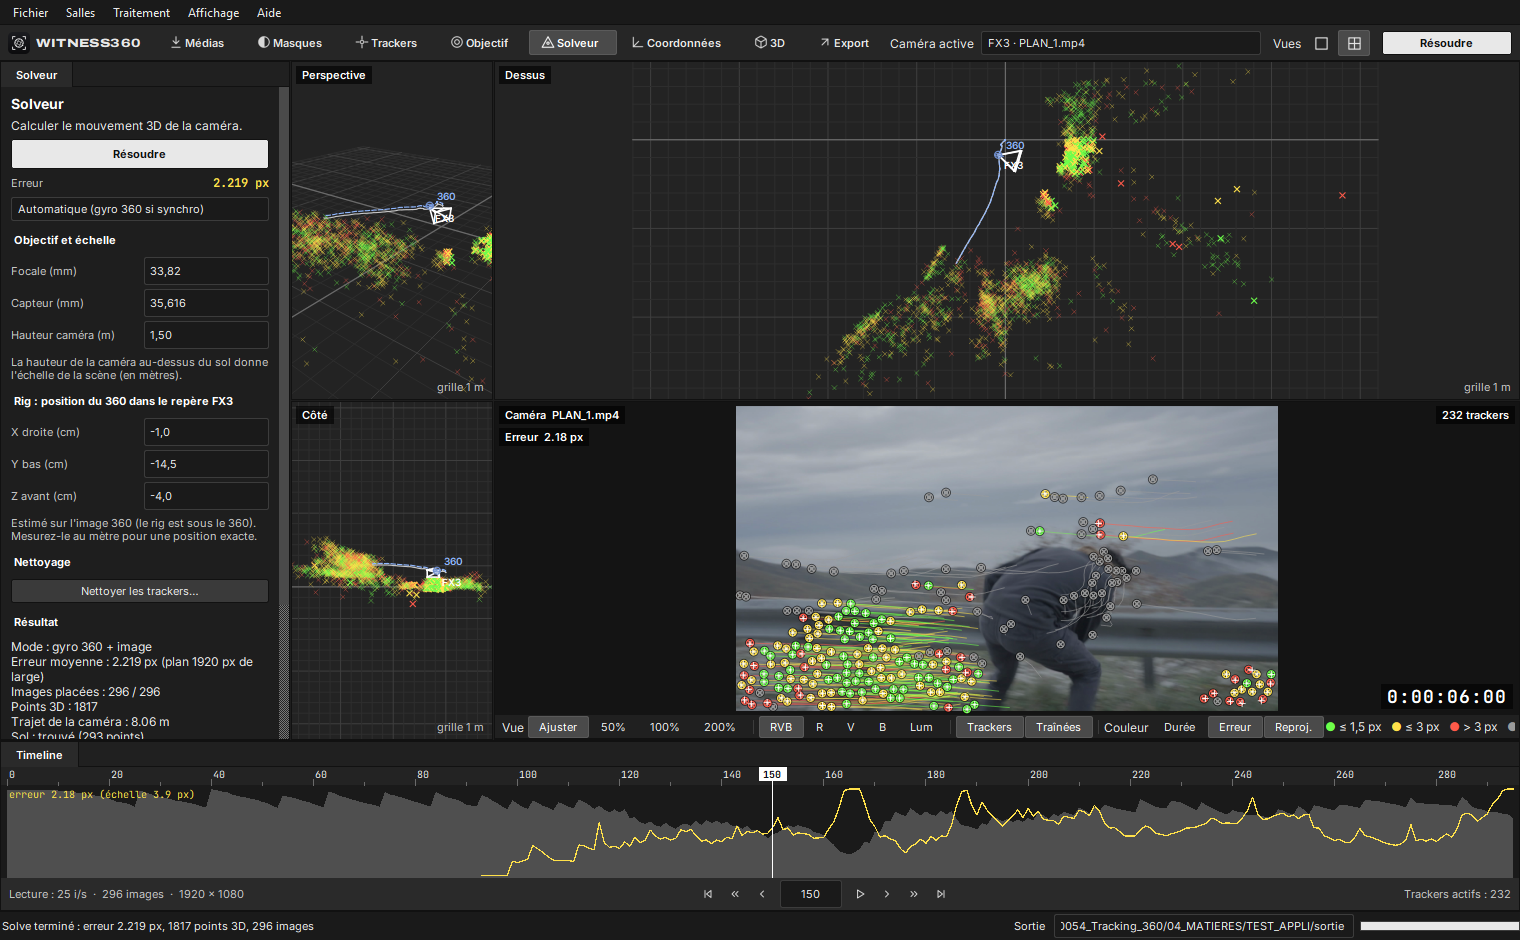
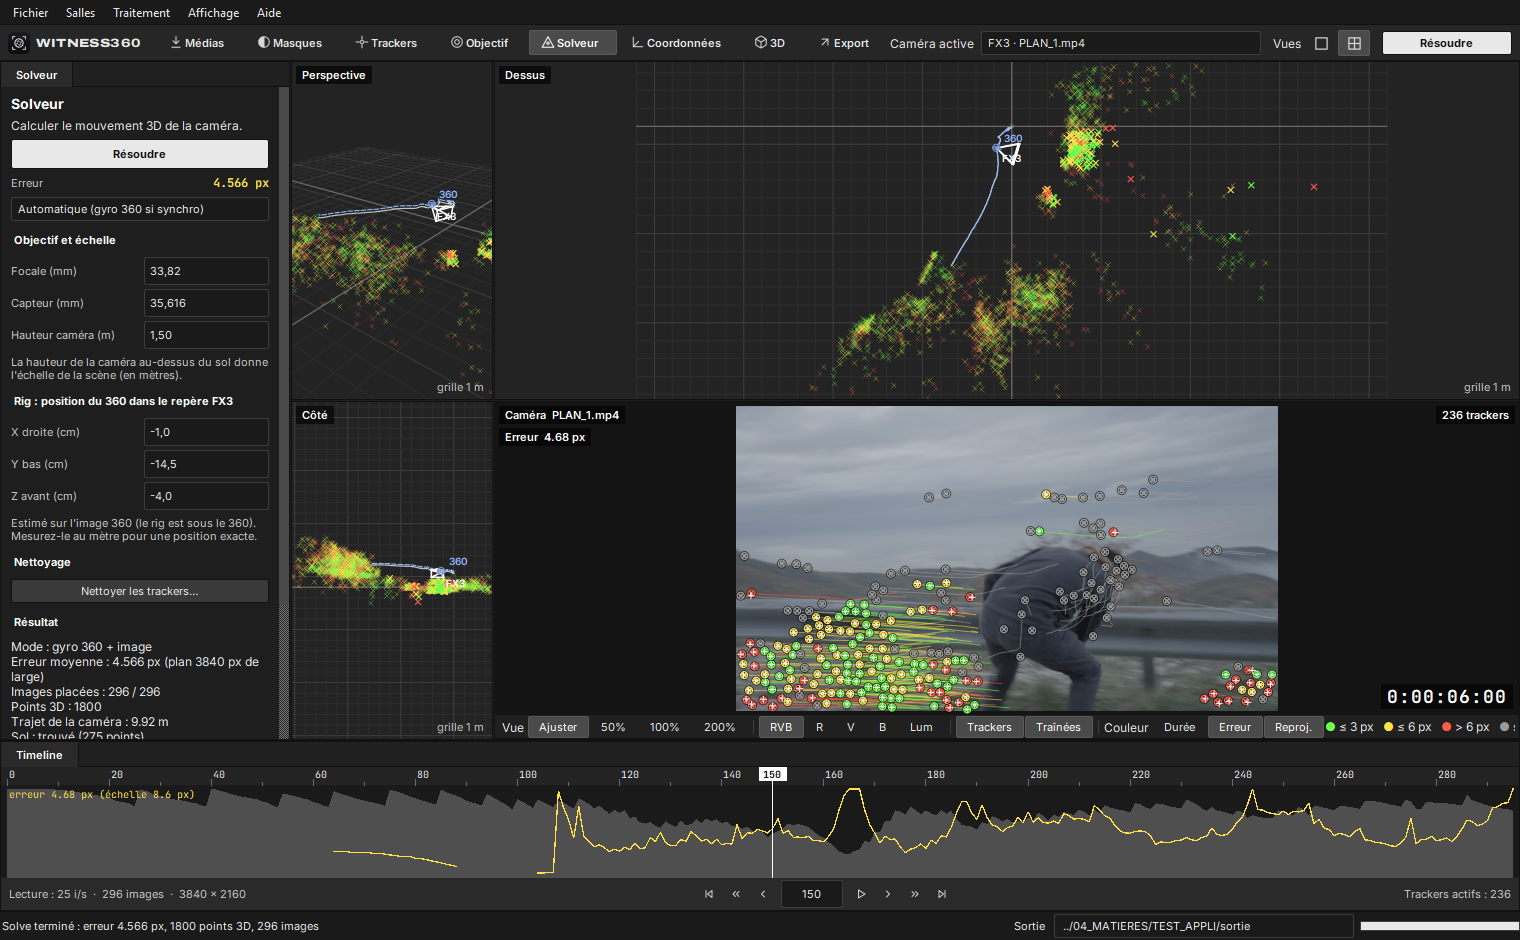
Version 0.2.1 : exemple pas à pas sur les plans 4K, seuils de couleur selon la largeur du plan

diff --git a/README.md b/README.md
@@ -34,8 +34,8 @@ Vérification manuelle : menu Aide > Rechercher les mises à jour.
 
 ## Exemple : une scène réelle, pas à pas
 
-Scène de test : 2 plans tournés à la Sony FX3 (25 i/s) avec une Insta360 ONE X2 montée sur le même rig.
-Le fichier 360 dure 9 min 53 s. Les plans durent 11 s et 9 s.
+Scène de test : 2 plans tournés à la Sony FX3 en 4K (3840 × 2160, 25 i/s) avec une Insta360 ONE X2 montée
+sur le même rig. Le fichier 360 dure 9 min 53 s. Les plans durent 11 s et 9 s.
 
 ### 1. Importer et synchroniser
 
@@ -66,8 +66,10 @@ En bas, la timeline montre le nombre de trackers actifs sur chaque image.
 
 ![Trackers, vue quadruple](captures/03_trackers_quad.png)
 
-Sur PLAN_1, l'auto-track garde 4032 trackers, avec 125 à 474 trackers actifs par image (364 en moyenne).
-Un tracker est suivi 27 images en moyenne, et jusqu'à 107.
+Sur PLAN_1, l'auto-track garde 4034 trackers, avec 100 à 470 trackers actifs par image (349 en moyenne).
+Un tracker est suivi 26 images en moyenne, et jusqu'à 116.
+Les points sont suivis sur une image réduite à 960 px de large, plus robuste au flou des panoramiques, puis reportés
+sur le plan 4K. Sur cette scène, suivre en pleine résolution ne réduisait pas l'erreur du solve.
 
 La vue simple agrandit l'image. Vous pouvez y zoomer (50 à 200 %), afficher un seul canal (R, V, B, luminance) et
 afficher ou masquer les traînées.
@@ -86,12 +88,14 @@ Salle **Solveur**, bouton **Résoudre** (Maj+G).
 - **Échelle** : elle vient de la hauteur de la caméra au-dessus du sol.
 
 L'erreur s'affiche en pixels du plan, dans le panneau et image par image (courbe jaune de la timeline).
-Les trackers prennent la couleur de leur erreur :
+Les trackers prennent la couleur de leur erreur. Les seuils suivent la largeur du plan :
 
-- vert : 1,5 px ou moins ;
-- jaune : 3 px ou moins ;
-- rouge : plus de 3 px ;
-- gris : pas de position 3D.
+| Couleur | Plan de 1920 px | Plan 4K (3840 px) |
+|---|---|---|
+| vert | 1,5 px ou moins | 3 px ou moins |
+| jaune | 3 px ou moins | 6 px ou moins |
+| rouge | plus de 3 px | plus de 6 px |
+| gris | pas de position 3D | pas de position 3D |
 
 Les trackers posés sur la personne qui bouge sont rejetés : ils restent gris.
 
@@ -107,7 +111,7 @@ Les trackers posés sur la personne qui bouge sont rejetés : ils restent gris.
 - les trackers lointains ;
 - les sauts isolés.
 
-Le solve est ensuite affiné. Sur PLAN_1, l'erreur passe de 2,22 px à 1,47 px.
+Le solve est ensuite affiné. Sur PLAN_1, l'erreur passe de 4,57 px à 2,89 px (pixels 4K).
 
 ![Après nettoyage et affinage](captures/06_solveur_affine.png)
 
@@ -136,8 +140,8 @@ Le choix **Caméra active** passe de la FX3 d'un plan à la caméra 360 témoin.
 - un `.abc` avec la caméra FX3 animée, le 360 témoin et le nuage de points ;
 - un `.blend` avec la plaque en fond de caméra.
 
-Vérification : une fois réimporté dans Blender, l'Alembic de PLAN_1 reprojette les trackers à 1,19 px
-(médiane, image 1920 px).
+Vérification : une fois réimporté dans Blender, l'Alembic reprojette les trackers à 2,23 px sur PLAN_1 et
+2,15 px sur PLAN_2 (médiane, pixels 4K). Le `.blend` est réglé en 3840 × 2160, avec la plaque 4K en fond.
 Dans Blender, réglez la scène à la cadence du plan (25 i/s) avant **Fichier > Importer > Alembic**, ou ouvrez
 directement le `.blend`.
 
@@ -155,6 +159,7 @@ Quand une nouvelle version est publiée ici, l'appli la propose au démarrage :
 |---|---|
 | 0.1 | Import, synchro audio 360, auto-track, versions Windows et Mac, mise à jour automatique |
 | 0.2 | Solve caméra aidé par le gyroscope 360, nettoyage des trackers, affinage, vues 3D avec la FX3 et le 360, export Alembic vers Blender |
+| 0.2.1 | Plans 4K de bout en bout (erreurs en pixels 4K, `.blend` en 3840 × 2160), caméra recentrée d'un demi-pixel |
 | Prochaine | Tracking directement sur l'image 360 (trackers tout autour du rig), solve combiné des deux caméras |
 | Ensuite | Masques (opérateur), objectif FX3 (métadonnées, distorsion), HDRI 360 dans la scène Blender |
 
